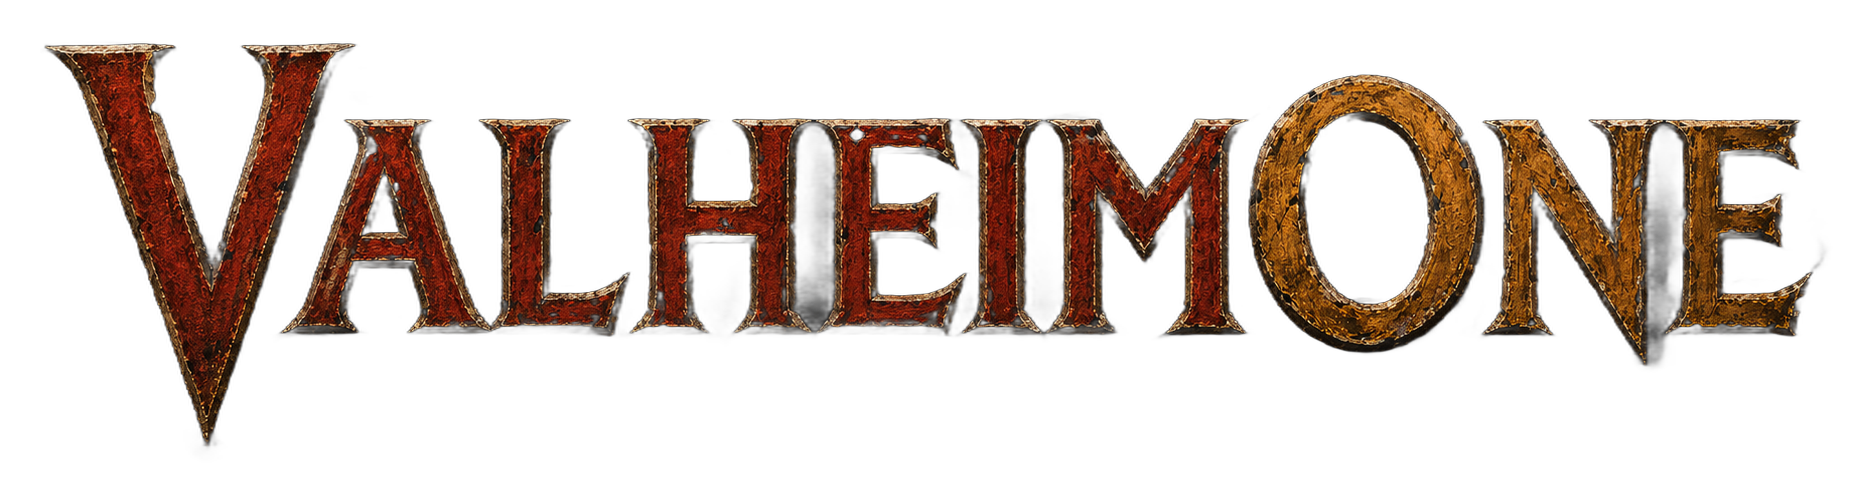
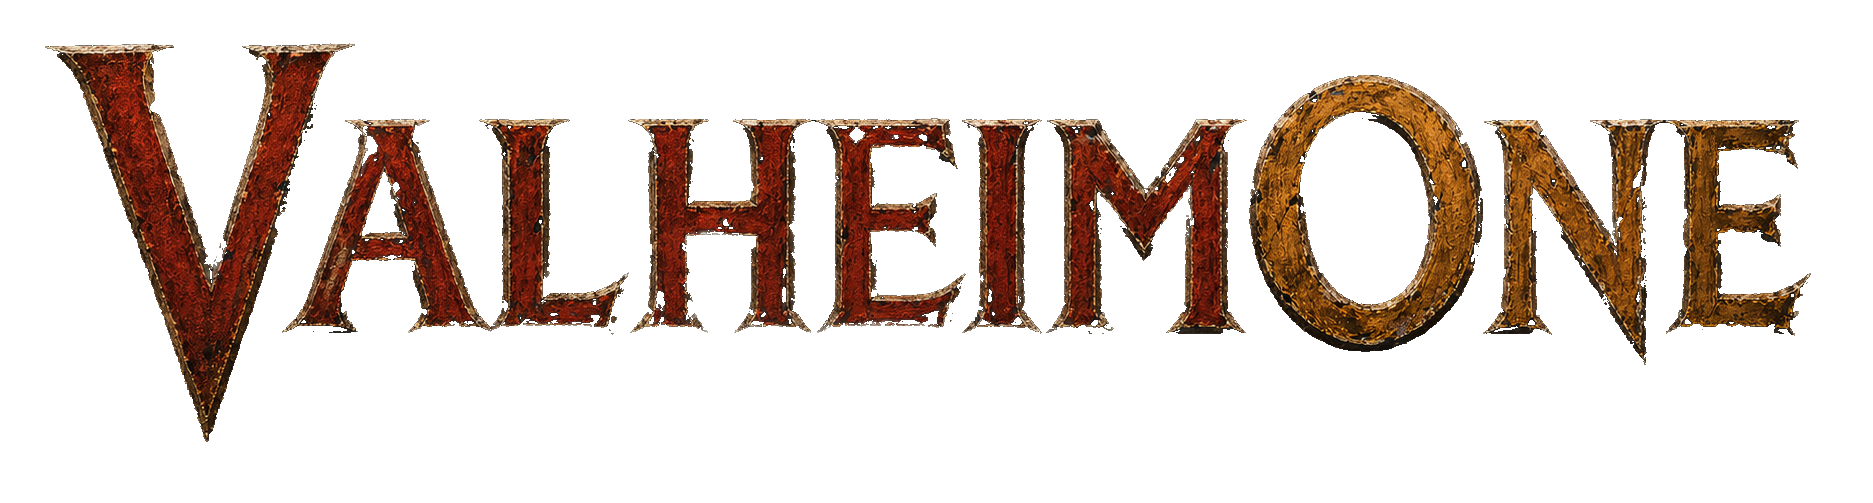
Rebuild the README to the Windrose+ standard: feature punch list ordered by impact, short copy, the 26-module reference moved to its own page, and the baked drop shadow stripped from the brand assets so the wordmark sits clean on a white background

diff --git a/README.md b/README.md
@@ -9,16 +9,14 @@
 
 [![License: MIT](https://img.shields.io/badge/License-MIT-yellow.svg)](LICENSE)
 [![BepInEx 5.4.x](https://img.shields.io/badge/BepInEx-5.4.x-2f80ed.svg)](https://github.com/BepInEx/BepInEx)
-[![Valheim — Dedicated Server](https://img.shields.io/badge/Valheim-Dedicated_Server-1b2838.svg?logo=steam&logoColor=white)](https://store.steampowered.com/app/892970/)
+[![Valheim - Dedicated Server](https://img.shields.io/badge/Valheim-Dedicated_Server-1b2838.svg?logo=steam&logoColor=white)](https://store.steampowered.com/app/892970/)
 [![Client Mods: Optional](https://img.shields.io/badge/Client_Mods-Optional-brightgreen.svg)](#features)
 
-Everything your Valheim dedicated server is missing: a live map, a searchable Codex of Items, a web console, Discord notifications, server-enforced settings, and a server query endpoint — with vanilla-compatible server features and synchronized client features where game ownership requires them.
+Everything your Valheim dedicated server is missing: a live world map you can share with your players, a searchable item codex, a browser admin console, Discord alerts, and server-enforced rules. Server-side only. Your players join with a completely vanilla game.
 
 _ValheimOne is a community project and is not affiliated with or endorsed by Iron Gate Studio._
 
-> **Official Hosting:** [SurvivalServers.com](https://www.survivalservers.com/services/game_servers/valheim/?utm_source=github&utm_medium=readme&utm_campaign=valheim_one) offers managed Valheim dedicated servers with BepInEx support for ValheimOne.
-
-**Status — released.** ValheimOne is available with the server enforcement chassis, twenty-six default-off gameplay modules, the Live Map (world render, players, POIs, pins, fog-of-war, admin and public views), the web admin console, and the standalone A2S query responder. The current unreleased build also adds the Codex of Items. Gameplay features are disabled by default; the `[Server]` transport infrastructure is enabled by default but does not alter gameplay on its own.
+> **Official Hosting:** [SurvivalServers.com](https://www.survivalservers.com/services/game_servers/valheim/?utm_source=github&utm_medium=readme&utm_campaign=valheim_one) offers managed Valheim dedicated servers with ValheimOne built in.
 
 ---
 
@@ -26,7 +24,7 @@ _ValheimOne is a community project and is not affiliated with or endorsed by Iro
 
 - [Features](#features)
 - [Installation](#installation)
-- [Using ValheimOne](#using-valheimone)
+- [Configuration](#configuration)
 - [Getting Help](#getting-help)
 - [Contributing](#contributing)
 - [License](#license)
@@ -35,126 +33,65 @@ _ValheimOne is a community project and is not affiliated with or endorsed by Iro
 
 ## Features
 
-### Live Map
+### 🗺 Live World Map
 
-Builds a procedural world render directly from the server seed, then cuts it into a zoomable Leaflet tile pyramid cached on disk for fast browser navigation. Live player positions (honoring in-game position privacy), points of interest read from world locations, shared map pins, and fog-of-war all update over the generated terrain, with a toggleable Layers panel and low-zoom POI clustering. Updates stream over an `/api/events` Server-Sent-Events feed (with automatic polling fallback), and an opt-in entity layer adds ships, carts, portals, tombstones, wards, beds, and a pulsing ring for active raid events, alongside a default-off Creatures layer that tracks bosses, serpents, and mobs inside an active raid. An on-demand structure survey clusters player-built pieces into a Bases layer that outlines each settlement with its approximate structure count, and admins can tow an unattended ship to a clicked map point, with moves refused while players are nearby or beyond a five-kilometer limit.
+Your whole world in a browser, drawn from the server seed and updating in real time. Players, ships, carts, portals, tombstones, wards and beds move as they happen. Fog-of-war can mirror exactly what your vikings have actually charted.
 
-![ValheimOne Live Map — admin view](docs/screenshots/livemap-admin.png)
+![ValheimOne Live Map, admin view](docs/screenshots/livemap-admin.png)
 
-Admin and shared views can switch on a default-off aggregate Activity Heatmap to read where vikings have been active over the last 24 hours or 7 days. A per-wipe Leaderboard ranks playtime, deaths, and distance traveled using display names only. The two-way chat panel restores recent history for admin and shared readers; admins can also send a rate-limited, audit-logged server shout straight from the browser.
+Turn on the heatmap to see where everyone has been over the last day or week, or open the Sagas leaderboard for playtime, deaths and distance travelled.
 
-The embedded HTTP server serves three view tiers: a token-gated admin view with every layer available, a shared spectator view, and a read-only public view governed by a configurable fog mode — `off`, `trails`, or `explored`, the latter decoding vanilla cartography-table data so the public map reveals exactly what players have charted. A slim map-top strip keeps status, day, and uptime visible in every tier, adding frame time and abbreviated ZDO count for console-authorized admins. Server status and player data are also available as JSON at `/api/status` and `/api/players`.
+### 🔗 Share It With Your Players
 
-![ValheimOne Live Map — public view with explored fog](docs/screenshots/livemap-public-fog.png)
+Three views, and you decide who gets which. **Admin** sees everything. **Spectator** shows live players and every layer but never grants a single admin action. **Public** is read-only and fog-covered, safe to post in your Discord.
 
-Map generation and runtime data stay on the server. Players join with fully vanilla clients; the browser map does not require a Valheim client mod.
+![ValheimOne public map with explored fog](docs/screenshots/livemap-public-fog.png)
 
-### Dungeon Interior Viewer
+### 🏛 Look Inside Dungeons
 
-Dungeon entrances on the Live Map give admin and shared viewers a View Interior action that opens a top-down room schematic parsed from the game's own generated room data. Live players inside appear directly in the schematic, while their map markers and roster entries are tagged `In: <dungeon>` — solving the "vanished into a crypt" problem at a glance.
+Click any dungeon entrance and get a top-down room schematic read straight from the game's own generated layout, with live players drawn inside it. No more wondering where someone vanished to.
 
-![ValheimOne dungeon entrance with View Interior action](docs/screenshots/dungeon-marker.png)
+![ValheimOne dungeon interior viewer](docs/screenshots/dungeon-interior.png)
 
-![ValheimOne Dungeon Interior Viewer](docs/screenshots/dungeon-interior.png)
+### 📖 Codex of Items
 
-### Web pins
-
-Collaborative web pins let map viewers mark destinations, resources, and tasks directly from the browser. Checking a pin off keeps it in the shared history instead of deleting it, and changes sync live through the existing SSE feed. `SharedPinEditing` controls whether shared-view visitors can create pins and edit their own, while `PublicWebPins` exposes the pins read-only on the public view. The persistent store keeps up to 100 pins per author and 500 globally, and accepts only the built-in icon whitelist.
-
-### Web Admin Console
-
-Adds a Console tab to the Live Map dashboard (opt-in via `ConsoleEnabled`, admin token required): a live server log with severity colors and resume-scroll, a command input with history and autocomplete that executes whitelisted commands through the game's own console path (`ConsoleWhitelist`, or `AllowAllCommands`), player kick/ban/unban with confirm dialogs, a world-save button, and a stats readout backed by `/api/stats` (uptime, players, ZDOs, Mono heap, frame timings). Destructive shutdown commands receive an additional browser confirmation before they are sent.
-
-Use `vo shutdown <seconds> [message]` from the native or web console to schedule a graceful dedicated-server stop (the delay is clamped to 5–3600 seconds), and `vo shutdown cancel` to cancel it. Players receive server shouts when the countdown is armed and at applicable 60-, 30-, and 10-second marks. At zero, ValheimOne completes a synchronous world and player-profile save before entering Valheim's normal clean-exit path.
-
-![ValheimOne Web Admin Console](docs/screenshots/console-tab.png)
-
-The command input autocompletes against the server's whitelist as you type:
-
-![ValheimOne console command autocomplete](docs/screenshots/console-autocomplete.png)
-
-Use `vo item <name>` from the native or web console to query the same item data; the web console suggests and click-completes item names as you type the command.
-
-### Codex of Items
-
-Adds a Codex of Items tab to the admin, shared, and public map views: a searchable, category-filtered catalog of approximately 1,084 items extracted from the running server at startup. Entries cover weight, stack size, teleport restrictions, quality and tool tiers, damage and armor, complete recipes with crafting station and level requirements, jump links between ingredients, smelter/cooking/fermenter sources, creature drops, and used-in cross-references.
+Every one of roughly 1,084 items, searchable and filterable: weight, stack size, tiers, damage, armour, full recipes with station requirements, what drops it, and what it is used to make. Jump straight from an ingredient to everything that needs it.
 
 ![ValheimOne Codex of Items](docs/screenshots/codex-of-items.png)
 
-The versioned public `GET /api/catalog` endpoint serves the same static game data with a day-long `ETag` cache and contains no world or player information.
+### 💻 Admin Console In The Browser
 
-### Discord Notifications
+A live server log and a command box with history and autocomplete, running whitelisted commands through the game's own console. Kick, ban, save the world, or schedule a graceful shutdown that warns players on the way down.
 
-The opt-in, server-only `[Discord]` feature sends batched webhook embeds for player joins and leaves, deaths (including the last known biome when available), raid starts and ends, world saves, and new in-game days. Join, leave, death, and raid notifications default on; the noisier world-save and day-change notifications default off. Set `WebhookUrl`, optionally set `ServerDisplayName` (otherwise the world name is used), and enable the section. Changes to the feature gate, URL, display name, and event toggles apply live.
+![ValheimOne web admin console](docs/screenshots/console-tab.png)
 
-Webhook delivery is isolated to a bounded background worker with HTTPS/TLS 1.2, short timeouts, and limited retries. The webhook URL is treated as sensitive: it is never logged or synchronized to clients, and notification payloads contain only the configured/world display name and event text—not passwords, join codes, connection addresses, platform IDs, or tokens. This feature works independently of the Live Map and Server Query modules.
+### ⚙ Server Rules That Actually Stick
 
-### Server-Enforced Settings
+Twenty-six opt-in modules covering carry weight, stamina, food, drops, gathering, build rules, portals, taming, raids, production speeds and more. Everything is off until you turn it on, and most values hot-reload without a restart.
 
-Uses one `BepInEx/config/valheimone.cfg` file as the server ruleset. Typed sections keep Boolean, integer, float, and percentage settings explicit; every feature has its own `Enabled = false` gate, so installing ValheimOne changes nothing until an operator opts in.
+See [docs/gameplay-modules.md](docs/gameplay-modules.md) for the full list.
 
-The enforcement chassis exchanges `VO_Hello`, `VO_Config`, and `VO_Ack` over routed RPC. In `[Server]`, `EnforceMod = false` permits vanilla clients; setting it to `true` kicks vanilla or mismatched clients after `HandshakeGraceSeconds`. `[Server]` also carries host-level controls: `MaxPlayers` raises the real player cap beyond Valheim's 10 (join gate and crossplay lobby capacity, works with vanilla clients), and `NoPasswordRequired` lets a public dedicated server start without a join password. `SyncConfig = true` sends compatible clients a chunked, acknowledgement-gated ruleset. Clients apply it as a data-only in-memory overlay, clear it on disconnect, and never receive `ClientOnly` sections. Compatible clients can therefore be hot-enabled by a server config push without installing new patches.
+![ValheimOne enforced ruleset in the server log](docs/screenshots/enforced-settings.png)
 
-![ValheimOne server log: enforced ruleset and live config hot-reload](docs/screenshots/enforced-settings.png)
+### 🔔 Discord Alerts
 
-Features use four modes: **server-authoritative** logic runs under server ownership and can support vanilla clients; **synced** logic requires a compatible client and receives the server overlay; **client-only** settings stay local and are never pushed; and **server-only** integrations run only on the host and are never synchronized. The current gameplay modules are:
+Joins, leaves, deaths with the biome they died in, raids starting and ending, world saves and new days. Point it at a webhook and pick which events you care about.
 
-- `Player` (`[Player]`) — sets carry weight, the Megingjord bonus, auto-pickup range, encumbered pickup, and rested seconds per comfort level. **Mode:** server-authoritative.
-- `PlayerStamina` (`[Stamina]`) — scales stamina regeneration, delay, movement drains, and action costs. **Mode:** synced.
-- `BuildingQoL` (`[Building]`) — removes structural-support requirements, suppresses ordinary placement blocking, and overrides build reach and rotation step. **Mode:** synced.
-- `FoodDuration` (`[Food]`) — scales food duration and can hold benefits at full strength until expiry. **Mode:** synced.
-- `ItemTweaks` (`[Items]`) — scales item stack sizes, weights, and maximum durability. **Mode:** synced.
-- `ItemDropMultiplier` (`[Drops]`) — scales destructible, creature, and pickable yields. **Mode:** server-authoritative.
-- `Gathering` (`[Gathering]`) — applies per-material yield modifiers and adjusts supported non-guaranteed drop chances. **Mode:** server-authoritative.
-- `CraftFromChest` (`[CraftFromChest]`) — consumes crafting and optional build costs from nearby accessible containers. **Mode:** synced.
-- `StationAutomation` (`[StationAutomation]`) — pulls fuel and processable items from nearby containers for smelter-based stations and fireplaces. **Mode:** synced.
-- `DayNightLength` (`[Time]`) — scales or absolutely overrides the full day/night cycle length. **Mode:** synced.
-- `Beehive` (`[Beehive]`) — overrides honey production time and storage capacity. **Mode:** synced.
-- `Fermenter` (`[Fermenter]`) — overrides fermentation time. **Mode:** synced.
-- `SapCollector` (`[SapCollector]`) — overrides sap production time and storage capacity. **Mode:** synced.
-- `Wards` (`[Wards]`) — overrides ward protection radius. **Mode:** synced.
-- `Portals` (`[Portals]`) — disables portal travel or permits normally restricted inventory. **Mode:** synced.
-- `ExperienceRates` (`[Experience]`) — applies global and per-skill experience multipliers. **Mode:** synced.
-- `DeathPenalty` (`[DeathPenalty]`) — scales death skill loss or preserves inventory without a tombstone. **Mode:** synced.
-- `MapSharing` (`[MapSharing]`) — forces compatible clients to share positions and synchronizes their combined explored-map area. **Mode:** synced.
-- `ProductionSpeeds` (`[ProductionSpeeds]`) — overrides production time, queue size, and fuel capacity across smelters, blast furnaces, kilns, windmills, spinning wheels, and eitr refineries. **Mode:** synced.
-- `CookingStation` (`[CookingStation]`) — scales cook speed, optionally bypasses the fire requirement, and auto-feeds fuel and raw food from nearby containers. **Mode:** synced.
-- `FireSource` (`[FireSource]`) — makes torches and fires infinite. **Mode:** synced.
-- `StructuralIntegrity` (`[StructuralIntegrity]`) — disables weather damage and reduces support loss by material. **Mode:** synced.
-- `ContainerSizes` (`[ContainerSizes]`) — overrides chest, cart, karve, and longship grid sizes with an item-safe shrink guard. **Mode:** synced.
-- `Tames` (`[Tames]`) — applies taming, growth, and procreation rate modifiers. **Mode:** synced.
-- `WorldEvents` (`[Events]`) — controls raid chance and interval, disables raids, and overrides guardian-power duration and cooldown. **Mode:** server-authoritative.
-- `Trader` (`[Trader]`) — multiplies trader buy prices. **Mode:** synced.
+### 📡 Server Browser Support
 
-**Client-only:** n/a; no current gameplay module uses this mode.
+A standalone A2S query responder so server browsers, monitoring tools and hosting panels can see your server, including crossplay servers that do not answer A2S on their own. Richer JSON lives at `/api/status` and `/api/players`.
 
-### Server Query / Status
-
-The opt-in `[Query]` feature runs a standalone A2S-compatible (Source Engine Query) UDP responder for server browsers, monitoring tools, and hosting panels, including crossplay servers that do not answer A2S natively. It works independently of the Live Map and defaults to the game port plus 4 (`QueryPort = 0`), avoiding Valheim's own game-port-plus-1 Steam query listener on non-crossplay servers.
-
-A2S_INFO reports the live server and world names, game and version details, password state, live player count, configured maximum players, game port, ValheimOne version keyword, and Valheim's game ID. A2S_PLAYER reports connected player slots; names default to private, generic `Player N` labels unless `PublicPlayerNames = true`.
-
-When the Live Map is enabled, its embedded HTTP server also exposes the richer `/api/status` and `/api/players` JSON surfaces. `/api/status` stays available without a token by default (`StatusPublic`) for hosting-panel queries; see [docs/query.md](docs/query.md).
-
-![ValheimOne /api/status JSON response](docs/screenshots/api-status.png)
+See [docs/query.md](docs/query.md).
 
 ---
 
 ## Installation
 
-ValheimOne requires a Valheim Dedicated Server with [BepInEx 5.4.x](https://github.com/BepInEx/BepInEx) installed.
+You need a Valheim Dedicated Server with [BepInEx 5.4.x](https://github.com/BepInEx/BepInEx).
 
-Download the latest release zip from [GitHub Releases](https://github.com/HumanGenome/ValheimOne/releases). Choose the plugin-only package for a server that already has BepInEx installed, or the full BepInEx-bundled package for a new installation.
-
-Alternatively, build ValheimOne from source:
-
-```bash
-./build.sh
-```
-
-Release zips (a plugin-only package and a full BepInEx-bundled package) are produced by `tools/package-release.sh`; see [RELEASING.md](RELEASING.md).
-
-The build produces `src/ValheimOne/bin/Release/net472/ValheimOne.dll`. Copy that file into the dedicated server's `BepInEx/plugins/` directory:
+1. Download the latest zip from [Releases](https://github.com/HumanGenome/ValheimOne/releases). Take the plugin-only package if you already run BepInEx, or the bundled package for a fresh install.
+2. Drop `ValheimOne.dll` into `BepInEx/plugins/`.
+3. Start the server. ValheimOne writes `BepInEx/config/valheimone.cfg` on first boot.
 
 ```text
 Valheim Dedicated Server/
@@ -163,20 +100,15 @@ Valheim Dedicated Server/
         └── ValheimOne.dll
 ```
 
-Start the dedicated server normally. ValheimOne loads through BepInEx and creates `BepInEx/config/valheimone.cfg` on first boot.
+Building from source is `./build.sh`; see [RELEASING.md](RELEASING.md) for packaging.
 
 ---
 
-## Using ValheimOne
+## Configuration
 
-### Configure the Server Ruleset
+Everything lives in one file: `BepInEx/config/valheimone.cfg`. Every gameplay section is off by default, so a fresh install changes nothing until you opt in.
 
-1. Start the dedicated server once so ValheimOne writes `BepInEx/config/valheimone.cfg` with documented defaults.
-2. Stop the server and open the configuration file.
-3. Enable only the feature sections you want and set their typed values.
-4. Start the server again to apply the ruleset.
-
-Every gameplay section is opt-in. The `[Server]` infrastructure section is the sole default-on exception. Sections include `[Player]` for carry weight, `[Stamina]` for stamina regeneration and costs, and `[Time]` for day/night length. This `[Player]` example raises base carry weight to 450 and changes the Megingjord bonus to 200:
+Start the server once to generate the file, then enable the sections you want:
 
 ```ini
 [Player]
@@ -186,15 +118,16 @@ BaseMaximumWeight = 450
 MegingjordBuff = 200
 ```
 
-`BaseMaximumWeight` is the absolute unmodified carry limit; `MegingjordBuff` is the absolute bonus applied when the belt is active. Their Valheim defaults are 300 and 150 respectively.
+Saving the file applies changed values live. Only changes that alter patch topology need a restart.
 
-Configuration edits hot-reload: saving `valheimone.cfg` applies changed values live (debounced, with a per-key diff logged), and server-pushed overlay values keep precedence. Only changes that alter patch topology still require a restart.
+- Full module list and what each one does: [docs/gameplay-modules.md](docs/gameplay-modules.md)
+- Query and status endpoints: [docs/query.md](docs/query.md)
 
 ---
 
 ## Getting Help
 
-For ValheimOne bug reports and feature requests, use [GitHub Issues](https://github.com/HumanGenome/ValheimOne/issues). If you play through a hosting provider, contact that provider's support for hosting or control-panel questions. SurvivalServers customers: for hosting or control-panel questions, contact SurvivalServers support; for ValheimOne bugs, [GitHub Issues here](https://github.com/HumanGenome/ValheimOne/issues) works too.
+Bugs and feature requests go to [GitHub Issues](https://github.com/HumanGenome/ValheimOne/issues). If you rent your server, hosting and control-panel questions belong with your provider.
 
 ---
 

diff --git a/docs/gameplay-modules.md b/docs/gameplay-modules.md
@@ -1,0 +1,42 @@
+# Gameplay Modules
+
+Every gameplay module is off until you enable it. Each has its own `Enabled = false` gate in
+`BepInEx/config/valheimone.cfg`, so installing ValheimOne changes nothing on its own.
+
+Features use four modes: **server-authoritative** logic runs under server ownership and can support vanilla clients; **synced** logic requires a compatible client and receives the server overlay; **client-only** settings stay local and are never pushed; and **server-only** integrations run only on the host and are never synchronized. The current gameplay modules are:
+
+- `Player` (`[Player]`) — sets carry weight, the Megingjord bonus, auto-pickup range, encumbered pickup, and rested seconds per comfort level. **Mode:** server-authoritative.
+- `PlayerStamina` (`[Stamina]`) — scales stamina regeneration, delay, movement drains, and action costs. **Mode:** synced.
+- `BuildingQoL` (`[Building]`) — removes structural-support requirements, suppresses ordinary placement blocking, and overrides build reach and rotation step. **Mode:** synced.
+- `FoodDuration` (`[Food]`) — scales food duration and can hold benefits at full strength until expiry. **Mode:** synced.
+- `ItemTweaks` (`[Items]`) — scales item stack sizes, weights, and maximum durability. **Mode:** synced.
+- `ItemDropMultiplier` (`[Drops]`) — scales destructible, creature, and pickable yields. **Mode:** server-authoritative.
+- `Gathering` (`[Gathering]`) — applies per-material yield modifiers and adjusts supported non-guaranteed drop chances. **Mode:** server-authoritative.
+- `CraftFromChest` (`[CraftFromChest]`) — consumes crafting and optional build costs from nearby accessible containers. **Mode:** synced.
+- `StationAutomation` (`[StationAutomation]`) — pulls fuel and processable items from nearby containers for smelter-based stations and fireplaces. **Mode:** synced.
+- `DayNightLength` (`[Time]`) — scales or absolutely overrides the full day/night cycle length. **Mode:** synced.
+- `Beehive` (`[Beehive]`) — overrides honey production time and storage capacity. **Mode:** synced.
+- `Fermenter` (`[Fermenter]`) — overrides fermentation time. **Mode:** synced.
+- `SapCollector` (`[SapCollector]`) — overrides sap production time and storage capacity. **Mode:** synced.
+- `Wards` (`[Wards]`) — overrides ward protection radius. **Mode:** synced.
+- `Portals` (`[Portals]`) — disables portal travel or permits normally restricted inventory. **Mode:** synced.
+- `ExperienceRates` (`[Experience]`) — applies global and per-skill experience multipliers. **Mode:** synced.
+- `DeathPenalty` (`[DeathPenalty]`) — scales death skill loss or preserves inventory without a tombstone. **Mode:** synced.
+- `MapSharing` (`[MapSharing]`) — forces compatible clients to share positions and synchronizes their combined explored-map area. **Mode:** synced.
+- `ProductionSpeeds` (`[ProductionSpeeds]`) — overrides production time, queue size, and fuel capacity across smelters, blast furnaces, kilns, windmills, spinning wheels, and eitr refineries. **Mode:** synced.
+- `CookingStation` (`[CookingStation]`) — scales cook speed, optionally bypasses the fire requirement, and auto-feeds fuel and raw food from nearby containers. **Mode:** synced.
+- `FireSource` (`[FireSource]`) — makes torches and fires infinite. **Mode:** synced.
+- `StructuralIntegrity` (`[StructuralIntegrity]`) — disables weather damage and reduces support loss by material. **Mode:** synced.
+- `ContainerSizes` (`[ContainerSizes]`) — overrides chest, cart, karve, and longship grid sizes with an item-safe shrink guard. **Mode:** synced.
+- `Tames` (`[Tames]`) — applies taming, growth, and procreation rate modifiers. **Mode:** synced.
+- `WorldEvents` (`[Events]`) — controls raid chance and interval, disables raids, and overrides guardian-power duration and cooldown. **Mode:** server-authoritative.
+- `Trader` (`[Trader]`) — multiplies trader buy prices. **Mode:** synced.
+
+**Client-only:** n/a; no current gameplay module uses this mode.
+
+## Modes explained
+
+- **server-authoritative** - runs under server ownership and works with vanilla clients.
+- **synced** - needs a compatible client, which receives the server's overlay.
+- **client-only** - stays local, never pushed to clients.
+- **server-only** - runs on the host, never synchronized.
